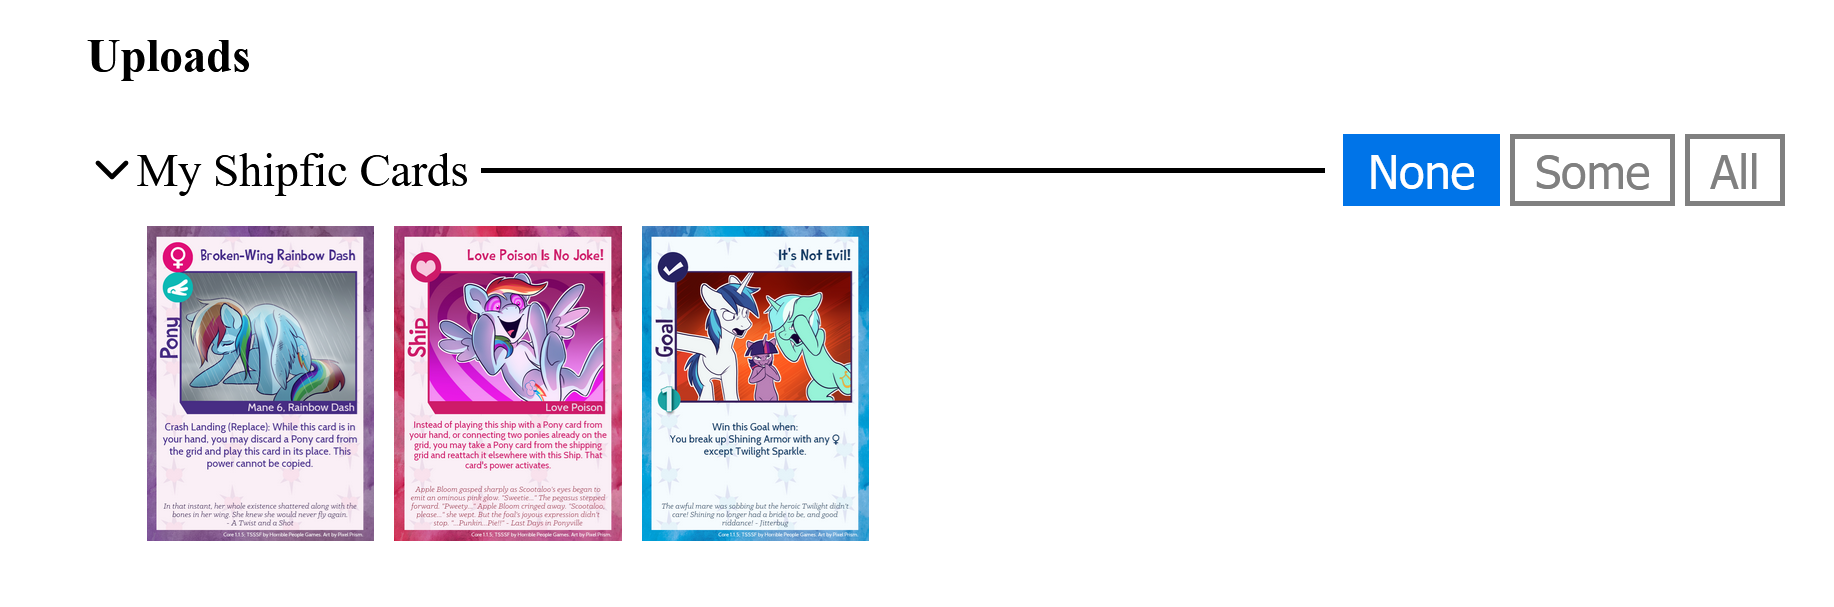
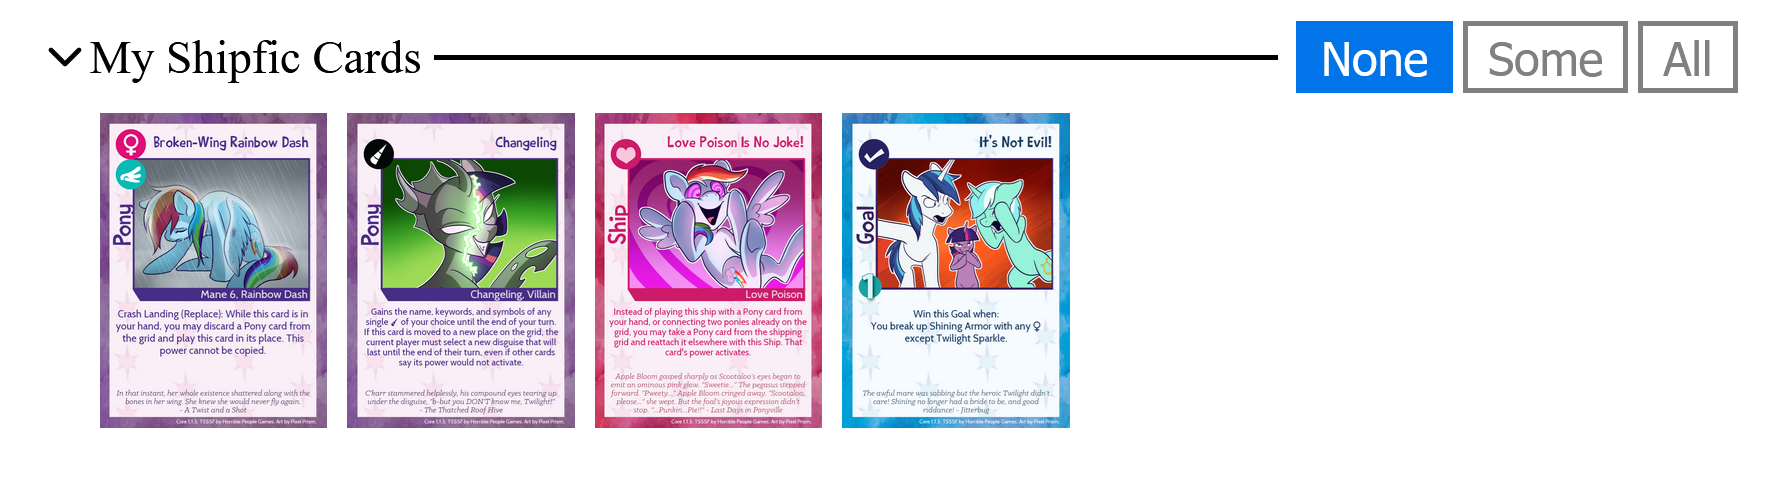
bug fix + have 2 pony cards in example

Changed region(s): [[0.0311, 0.0309, 0.9949, 0.8969], [0.5285, 0.7423, 0.5596, 0.7732]]

diff --git a/views/addYourOwnCards/addYourOwnCards.html b/views/addYourOwnCards/addYourOwnCards.html
@@ -163,6 +163,9 @@
 		"pony": {
 			"BrokenWingRainbowDash": {
 				"url": "https://tsssf.net/packs/Core/Pony/BrokenWingRainbowDash.png"
+			},
+			"UnicornChangeling": {
+				"url": "https://tsssf.net/packs/Core/Pony/UnicornChangeling.png"
 			}
 		},
 
@@ -208,6 +211,16 @@
 				"action": "replace",
 				"keywords": [
 					"Mane 6"
+				]
+			},
+			"UnicornChangeling": {
+				"url": "https://tsssf.net/packs/Core/Pony/UnicornChangeling.png",
+				"name": "Changeling",
+				"race": "unicorn",
+				"action": "Changeling(unicorn)",
+				"keywords": [
+					"Changeling",
+					"Villain"
 				]
 			}
 		},

diff --git a/views/game/game.ts b/views/game/game.ts
@@ -456,7 +456,7 @@ function updateEffects()
 	if(larsonEffect)
 	{
 		var newCards = Object.keys(model.board)
-			.filter( x => x.startsWith("p,"))
+			.filter( x => x.startsWith("p,") && !isBlank(model.board[x].card))
 			.map(x => model.board[x].card);
 
 		var newObj = {} as any;
